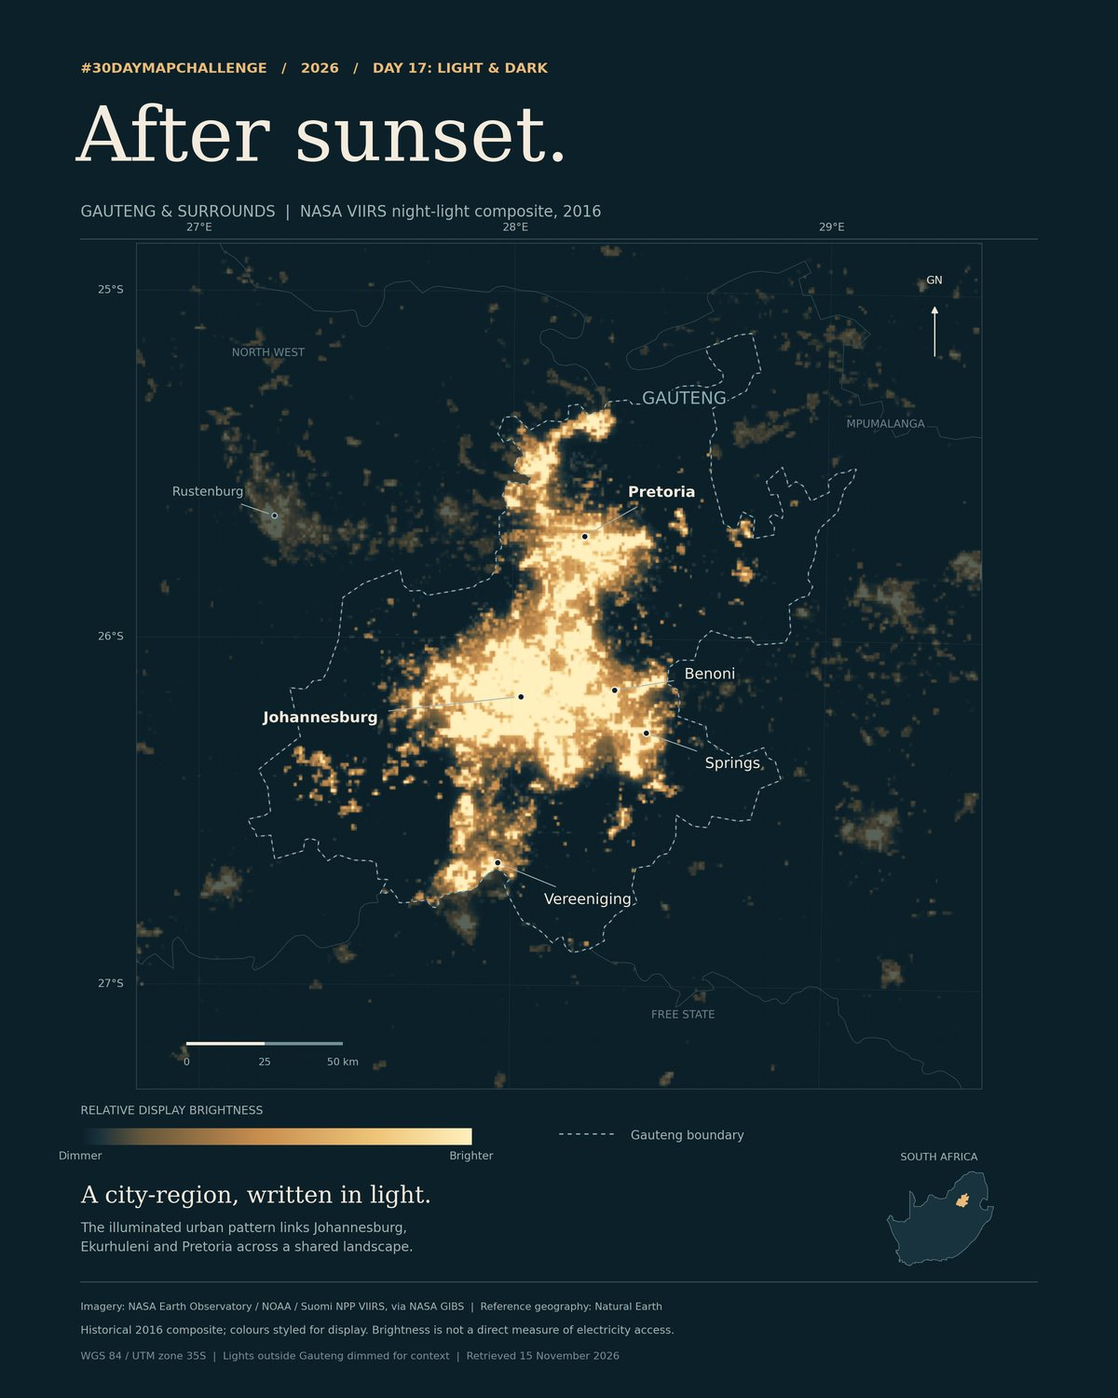
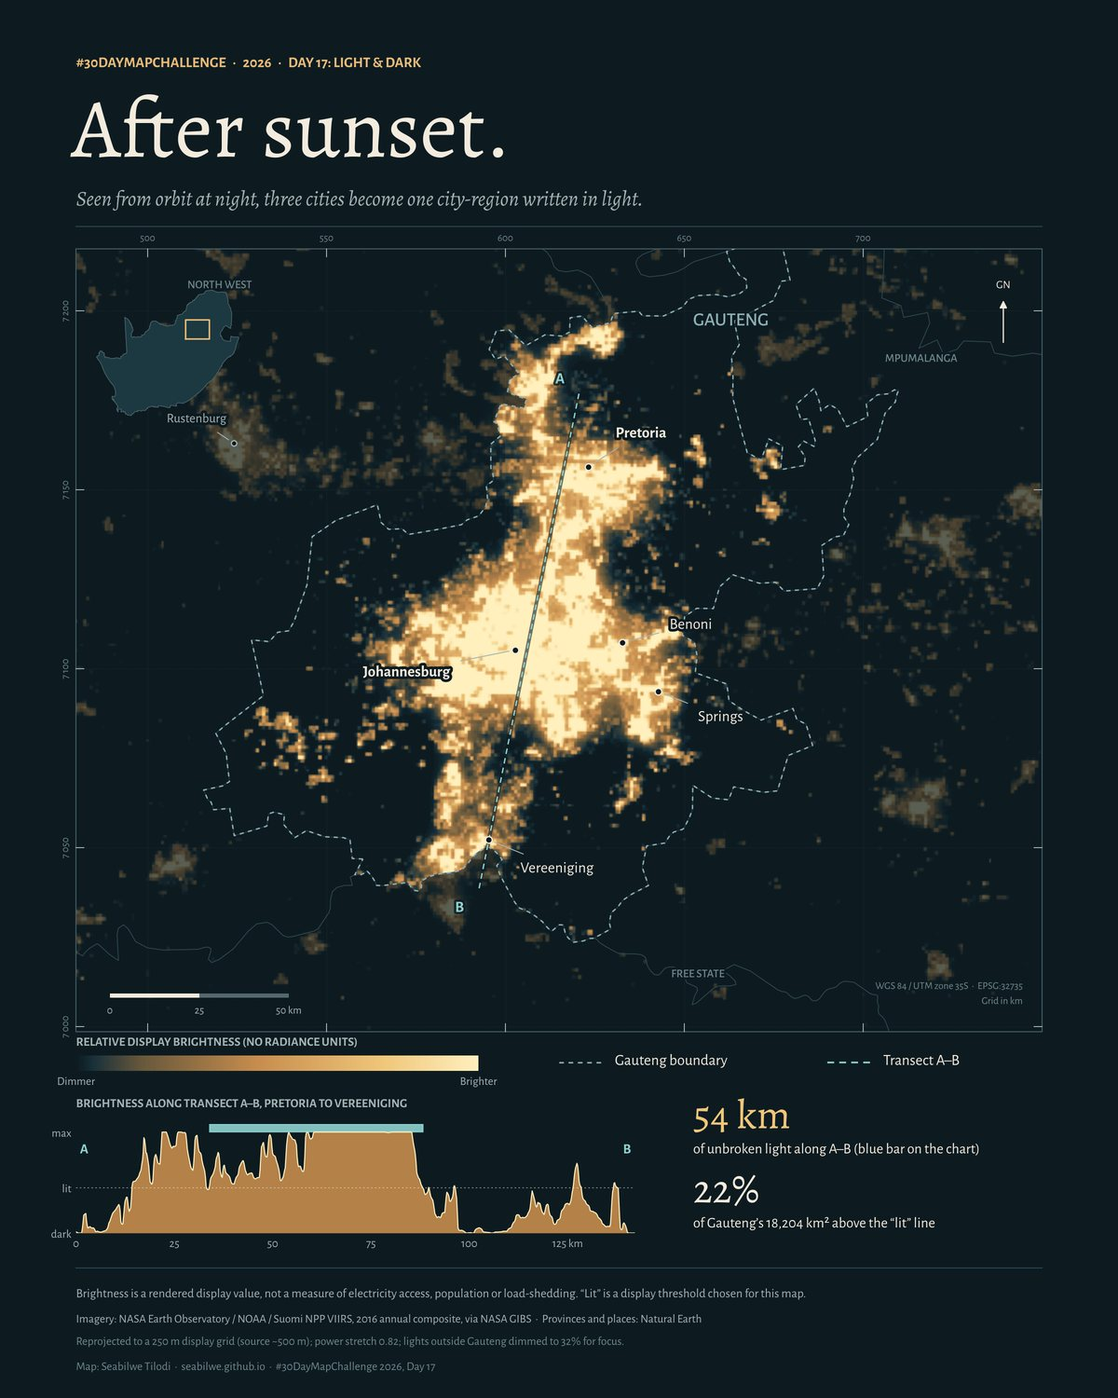
30DayMapChallenge: shared layout, Days 1 and 2, theme names on the month strip
Claude-Session: https://claude.ai/code/session_01C9NQRF8kY3v3MTsFpu5EHx

diff --git a/map-30daymapchallenge.html b/map-30daymapchallenge.html
@@ -10,7 +10,7 @@
 <link rel="preconnect" href="https://fonts.gstatic.com" crossorigin>
 <link href="https://fonts.googleapis.com/css2?family=Alegreya:ital,wght@0,500;0,700;1,500&family=Alegreya+Sans:ital,wght@0,400;0,500;0,700;1,400&family=Kalam:wght@400&display=swap" rel="stylesheet">
 <link rel="stylesheet" href="assets/css/site.css?v=20261114c">
-<link rel="stylesheet" href="assets/css/map-folder.css?v=20261116a">
+<link rel="stylesheet" href="assets/css/map-folder.css?v=20261116b">
 </head>
 <body>
 <header class="topbar">
@@ -49,7 +49,7 @@
       </header>
 
       <section aria-labelledby="mc-month">
-        <div class="head"><div><h2 id="mc-month">The month at a glance</h2><p><span data-count>3</span> of 30 days mapped. Pick a day to pull its map out of the folder.</p></div></div>
+        <div class="head"><div><h2 id="mc-month">The month at a glance</h2><p><span data-count>5</span> of 30 days mapped. Pick a day to pull its map out of the folder.</p></div></div>
         <ol class="month" data-month aria-label="Days of November 2026"></ol>
         <p class="month-key"><span><i class="k-done"></i>Mapped</span><span><i class="k-open"></i>Not mapped yet</span></p>
       </section>
@@ -59,17 +59,72 @@
 
         <div class="folder">
           <div class="folder-tabs" role="tablist" aria-label="Challenge maps">
-            <button class="folder-tab" role="tab" id="tab-17" aria-controls="day-17" aria-selected="true" data-day="17" data-thumb="assets/maps/30daymapchallenge/day17-after-sunset.jpg"><small>Day 17</small>Light &amp; dark</button>
+            <button class="folder-tab" role="tab" id="tab-1" aria-controls="day-1" aria-selected="true" data-day="1" data-thumb="assets/maps/30daymapchallenge/day01-fontein.jpg"><small>Day 1</small>Points</button>
+            <button class="folder-tab" role="tab" id="tab-2" aria-controls="day-2" aria-selected="false" tabindex="-1" data-day="2" data-thumb="assets/maps/30daymapchallenge/day02-live-wires.jpg"><small>Day 2</small>Lines</button>
+            <button class="folder-tab" role="tab" id="tab-17" aria-controls="day-17" aria-selected="false" tabindex="-1" data-day="17" data-thumb="assets/maps/30daymapchallenge/day17-after-sunset.jpg"><small>Day 17</small>Light &amp; dark</button>
             <button class="folder-tab" role="tab" id="tab-26" aria-controls="day-26" aria-selected="false" tabindex="-1" data-day="26" data-thumb="assets/maps/30daymapchallenge/day26-written-in-water.jpg"><small>Day 26</small>Water</button>
             <button class="folder-tab" role="tab" id="tab-29" aria-controls="day-29" aria-selected="false" tabindex="-1" data-day="29" data-thumb="assets/maps/30daymapchallenge/day29-sculpted-by-light.jpg"><small>Day 29</small>Raster</button>
           </div>
 
           <div class="folder-body">
 
-            <!-- Day 17 -->
-            <article class="sheet" id="day-17" role="tabpanel" aria-labelledby="tab-17" tabindex="0">
+            <article class="sheet" id="day-1" role="tabpanel" aria-labelledby="tab-1" tabindex="0">
               <figure class="sheet-map">
-                <a href="assets/maps/30daymapchallenge/day17-after-sunset-full.jpg" target="_blank" rel="noopener"><img src="assets/maps/30daymapchallenge/day17-after-sunset.jpg" alt="Night-light map of Gauteng: a bright, continuous band of light joins Johannesburg, Ekurhuleni and Pretoria" width="1200" height="1500"></a>
+                <a href="assets/maps/30daymapchallenge/day01-fontein-full.jpg" target="_blank" rel="noopener"><img src="assets/maps/30daymapchallenge/day01-fontein.jpg" alt="Map of South Africa with thousands of small blue dots marking places named for a spring, densest from the Cape to the Highveld" width="1200" height="1500"></a>
+                <figcaption><span>Portrait poster, WGS&nbsp;84 / UTM zone 35S</span><a href="assets/maps/30daymapchallenge/day01-fontein-full.jpg" target="_blank" rel="noopener">Open full size</a></figcaption>
+              </figure>
+              <div class="slip">
+                <svg class="clip" viewBox="0 0 22 54" fill="none" stroke="currentColor" stroke-width="1.8" stroke-linecap="round"><path d="M7 14V44a5 5 0 0 0 10 0V8a7 7 0 0 0-14 0v34"/></svg>
+                <p class="theme">Day 1 · Points</p>
+                <h3>Fontein</h3>
+                <p class="brief">7,244 South African places are named for a spring. In a dry country, a reliable spring was worth naming a farm after.</p>
+                <ul class="stat-row">
+                  <li class="stat"><b>1 in 9</b><span>farm names in the gazetteer contain <i>fontein</i></span></li>
+                  <li class="stat"><b>16% vs 3%</b><span>of named places in Gauteng vs KwaZulu-Natal</span></li>
+                </ul>
+                <h4>How I made it</h4>
+                <ul>
+                  <li>Pulled every place in the GeoNames gazetteer for South Africa (103,212 features) and matched names containing <i>fontein</i> or the older <i>fonteyn</i>.</li>
+                  <li>Drew the 7,244 matches as points over a faint layer of all 67,435 named farms and settlements, so the pattern reads against where names exist at all.</li>
+                  <li>Counted the most repeated names: Rietfontein (reed spring) 318 times, Klipfontein (stone spring) 222, Driefontein (three springs) 153.</li>
+                  <li>Flagged the bias: the gazetteer leans on farm names recorded in Dutch and Afrikaans, so names in other languages are under-represented.</li>
+                </ul>
+                <h4>Data</h4>
+                <p class="src">GeoNames gazetteer for South Africa (CC BY 4.0) · Boundaries: Natural Earth.</p>
+                <ul class="tags"><li>Point mapping</li><li>Toponymy</li><li>Python · shapely</li><li>Spatial join</li></ul>
+              </div>
+            </article>
+
+            <article class="sheet" id="day-2" role="tabpanel" aria-labelledby="tab-2" tabindex="0" hidden>
+              <figure class="sheet-map">
+                <a href="assets/maps/30daymapchallenge/day02-live-wires-full.jpg" target="_blank" rel="noopener"><img src="assets/maps/30daymapchallenge/day02-live-wires.jpg" alt="Map of South Africa’s high-voltage power lines glowing gold and blue, with the brightest 765 kV lines running from the Highveld to the Cape" width="1200" height="1500" loading="lazy"></a>
+                <figcaption><span>Portrait poster, WGS&nbsp;84 / UTM zone 35S</span><a href="assets/maps/30daymapchallenge/day02-live-wires-full.jpg" target="_blank" rel="noopener">Open full size</a></figcaption>
+              </figure>
+              <div class="slip">
+                <svg class="clip" viewBox="0 0 22 54" fill="none" stroke="currentColor" stroke-width="1.8" stroke-linecap="round"><path d="M7 14V44a5 5 0 0 0 10 0V8a7 7 0 0 0-14 0v34"/></svg>
+                <p class="theme">Day 2 · Lines</p>
+                <h3>Live wires</h3>
+                <p class="brief">South Africa’s high-voltage grid, drawn from OpenStreetMap. The heaviest lines leave the Mpumalanga Highveld and reach for the Cape.</p>
+                <ul class="stat-row">
+                  <li class="stat"><b>34,157&nbsp;km</b><span>of mapped lines at 220&nbsp;kV and above</span></li>
+                  <li class="stat"><b>2,799&nbsp;km</b><span>of 765&nbsp;kV, the highest voltage</span></li>
+                </ul>
+                <h4>How I made it</h4>
+                <ul>
+                  <li>Extracted 8,095 power lines of 66&nbsp;kV and above from OpenStreetMap with the Overpass API, run from QGIS.</li>
+                  <li>Classed each line by its highest voltage and drew the backbone (400 and 765&nbsp;kV) with a soft glow so it reads first.</li>
+                  <li>Clipped to South Africa and measured every line’s geodesic length for the bar chart under the map.</li>
+                  <li>OSM is volunteer-mapped: each line is counted once, whatever its number of circuits, and some lines may be missing.</li>
+                </ul>
+                <h4>Data</h4>
+                <p class="src">© OpenStreetMap contributors (ODbL), extracted 16 November 2026 · Boundaries: Natural Earth.</p>
+                <ul class="tags"><li>Line styling</li><li>Overpass API</li><li>PyQGIS</li><li>Geodesic measurement</li></ul>
+              </div>
+            </article>
+
+            <article class="sheet" id="day-17" role="tabpanel" aria-labelledby="tab-17" tabindex="0" hidden>
+              <figure class="sheet-map">
+                <a href="assets/maps/30daymapchallenge/day17-after-sunset-full.jpg" target="_blank" rel="noopener"><img src="assets/maps/30daymapchallenge/day17-after-sunset.jpg" alt="Night-light map of Gauteng: a bright, continuous band of light joins Johannesburg, Ekurhuleni and Pretoria" width="1200" height="1500" loading="lazy"></a>
                 <figcaption><span>Portrait poster, WGS&nbsp;84 / UTM zone 35S</span><a href="assets/maps/30daymapchallenge/day17-after-sunset-full.jpg" target="_blank" rel="noopener">Open full size</a></figcaption>
               </figure>
               <div class="slip">
@@ -78,51 +133,49 @@
                 <h3>After sunset</h3>
                 <p class="brief">Seen from orbit at night, Johannesburg, Ekurhuleni and Pretoria stop being three cities and become one city-region written in light.</p>
                 <ul class="stat-row">
-                  <li class="stat"><b>2016</b><span>NASA VIIRS annual night-light composite</span></li>
-                  <li class="stat"><b>~500&nbsp;m</b><span>source image resolution</span></li>
+                  <li class="stat"><b>54&nbsp;km</b><span>of unbroken light on a transect from Pretoria to Vereeniging</span></li>
+                  <li class="stat"><b>22%</b><span>of Gauteng above the map’s “lit” line</span></li>
                 </ul>
                 <h4>How I made it</h4>
                 <ul>
-                  <li>Requested the VIIRS night-lights layer from NASA GIBS for a box around Gauteng and reprojected it to UTM&nbsp;35S on a 250&nbsp;m display grid.</li>
-                  <li>Styled the brightness on a navy-to-gold ramp, with a gentle power stretch so dimmer towns still show.</li>
-                  <li>Dimmed the lights outside Gauteng to keep the eye on the province, an editorial choice rather than a measured drop at the border.</li>
-                  <li>Kept the caveat on the map: brightness is not a measure of electricity access, population or load-shedding.</li>
+                  <li>Requested NASA’s VIIRS night-lights layer (2016 annual composite) from NASA GIBS and reprojected it to UTM&nbsp;35S on a 250&nbsp;m display grid.</li>
+                  <li>Styled brightness on a navy-to-gold ramp and dimmed lights outside Gauteng to keep the eye on the province.</li>
+                  <li>Sampled a north–south transect through Pretoria, Johannesburg and Vereeniging and measured the longest unbroken lit stretch.</li>
+                  <li>Brightness is a display value, not a measure of electricity access, population or load-shedding; “lit” is a threshold chosen for this map.</li>
                 </ul>
                 <h4>Data</h4>
                 <p class="src">NASA Earth Observatory / NOAA / Suomi NPP VIIRS via NASA GIBS · Provinces and places: Natural Earth.</p>
-                <ul class="tags"><li>Raster styling</li><li>Reprojection</li><li>Python · rasterio</li><li>QGIS starter pack</li></ul>
+                <ul class="tags"><li>Raster styling</li><li>Transect analysis</li><li>Python · rasterio</li><li>Reprojection</li></ul>
               </div>
             </article>
 
-            <!-- Day 26 -->
             <article class="sheet" id="day-26" role="tabpanel" aria-labelledby="tab-26" tabindex="0" hidden>
               <figure class="sheet-map">
-                <a href="assets/maps/30daymapchallenge/day26-written-in-water-full.jpg" target="_blank" rel="noopener"><img src="assets/maps/30daymapchallenge/day26-written-in-water.jpg" alt="South Africa's river network: perennial rivers in pale blue crowd the wetter east, seasonal rivers in sand dominate the dry west" width="1200" height="1500" loading="lazy"></a>
-                <figcaption><span>Portrait poster, Albers equal-area</span><a href="assets/maps/30daymapchallenge/day26-written-in-water-full.jpg" target="_blank" rel="noopener">Open full size</a></figcaption>
+                <a href="assets/maps/30daymapchallenge/day26-written-in-water-full.jpg" target="_blank" rel="noopener"><img src="assets/maps/30daymapchallenge/day26-written-in-water.jpg" alt="South Africa’s river network: perennial rivers in pale blue crowd the wetter east, seasonal rivers in sand dominate the dry west" width="1200" height="1500" loading="lazy"></a>
+                <figcaption><span>Portrait poster, WGS&nbsp;84 / UTM zone 35S</span><a href="assets/maps/30daymapchallenge/day26-written-in-water-full.jpg" target="_blank" rel="noopener">Open full size</a></figcaption>
               </figure>
               <div class="slip">
                 <svg class="clip" viewBox="0 0 22 54" fill="none" stroke="currentColor" stroke-width="1.8" stroke-linecap="round"><path d="M7 14V44a5 5 0 0 0 10 0V8a7 7 0 0 0-14 0v34"/></svg>
                 <p class="theme">Day 26 · Water</p>
                 <h3>Written in water</h3>
-                <p class="brief">Where South Africa’s rivers run all year, and where they wait for rain. Somewhere near 27°E the country’s river network changes character.</p>
+                <p class="brief">Where South Africa’s rivers run all year, and where they wait for rain. At 27°E, the central meridian of UTM&nbsp;35S, the river network changes character.</p>
                 <ul class="stat-row">
                   <li class="stat"><b>78%</b><span>of mapped river length east of 27°E is perennial</span></li>
                   <li class="stat"><b>28%</b><span>west of 27°E, where most rivers are seasonal</span></li>
                 </ul>
                 <h4>How I made it</h4>
                 <ul>
-                  <li>Mapped 101,472 river reaches (156,378&nbsp;km) from the NFEPA river network, split by the flow class recorded in the source: perennial or non-perennial.</li>
-                  <li>Measured every reach in an Albers equal-area projection and summed perennial length in 1° bands of longitude, shown in the strip chart under the map.</li>
+                  <li>Mapped 101,472 river reaches (156,358&nbsp;km) from the NFEPA river network, split by the flow class in the source: perennial or non-perennial.</li>
+                  <li>Measured every reach’s geodesic length and summed perennial length in 1° bands of longitude for the strip chart.</li>
                   <li>Picked out the Orange in gold: a perennial thread carrying water across the dry west.</li>
                   <li>Flow class is the long-term classification in the data, not today’s flow or drought conditions.</li>
                 </ul>
                 <h4>Data</h4>
-                <p class="src">NFEPA river network via the DFFE Screening Tool · Boundaries: Natural Earth 1:10m.</p>
-                <ul class="tags"><li>Vector analysis</li><li>Equal-area measurement</li><li>Python · shapely</li><li>QGIS starter pack</li></ul>
+                <p class="src">NFEPA river network via the DFFE Screening Tool · Boundaries: Natural Earth.</p>
+                <ul class="tags"><li>Vector analysis</li><li>Geodesic measurement</li><li>Python · shapely</li><li>Classification</li></ul>
               </div>
             </article>
 
-            <!-- Day 29 -->
             <article class="sheet" id="day-29" role="tabpanel" aria-labelledby="tab-29" tabindex="0" hidden>
               <figure class="sheet-map">
                 <a href="assets/maps/30daymapchallenge/day29-sculpted-by-light-full.jpg" target="_blank" rel="noopener"><img src="assets/maps/30daymapchallenge/day29-sculpted-by-light.jpg" alt="Shaded-relief map of the Maloti-Drakensberg: the high Lesotho plateau glows in sand tones above the dark, shadowed escarpment" width="1200" height="1500" loading="lazy"></a>
@@ -135,17 +188,17 @@
                 <p class="brief">Ridges emerge, valleys fall into shadow. The Maloti-Drakensberg, drawn from nothing but elevation data.</p>
                 <ul class="stat-row">
                   <li class="stat"><b>3,482&nbsp;m</b><span>Thabana Ntlenyana, the highest summit on the map</span></li>
-                  <li class="stat"><b>156</b><span>elevation tiles mosaicked into one 140&nbsp;m grid</span></li>
+                  <li class="stat"><b>1,396&nbsp;m</b><span>the lowest ground in Lesotho on this grid</span></li>
                 </ul>
                 <h4>How I made it</h4>
                 <ul>
-                  <li>Decoded Terrarium elevation tiles to metres, mosaicked them and reprojected the grid to UTM&nbsp;35S.</li>
-                  <li>Coloured elevation from 600 to 3,500&nbsp;m in charcoal, sand and copper, then blended a north-west hillshade over it, with 2× exaggeration for the shading only.</li>
-                  <li>Added sparse contours as texture and labelled three summits with heights from a cited source rather than the resampled grid.</li>
+                  <li>Decoded 156 Terrarium elevation tiles to metres, mosaicked them and reprojected the grid to UTM&nbsp;35S at 140&nbsp;m.</li>
+                  <li>Coloured elevation from 600 to 3,500&nbsp;m in charcoal, sand and copper and blended a north-west hillshade over it (2× exaggeration for shading only).</li>
+                  <li>Cut an elevation profile from the Lesotho plateau over the escarpment, and found Lesotho’s lowest ground from the grid itself.</li>
                 </ul>
                 <h4>Data</h4>
-                <p class="src">Terrain Tiles: Mapzen / AWS Open Data (SRTM and GMTED2010, courtesy of the USGS) · Boundaries: Natural Earth · Summits: Drakensberg Hikes.</p>
-                <ul class="tags"><li>DEM processing</li><li>Hillshade &amp; hypsometric tint</li><li>Python · rasterio</li><li>QGIS starter pack</li></ul>
+                <p class="src">Terrain Tiles: Mapzen / AWS (SRTM and GMTED2010, courtesy of the USGS) · Boundaries: Natural Earth · Summits: Drakensberg Hikes.</p>
+                <ul class="tags"><li>DEM processing</li><li>Hillshade &amp; hypsometric tint</li><li>Elevation profile</li><li>Python · rasterio</li></ul>
               </div>
             </article>
 
@@ -161,7 +214,7 @@
         <div class="head"><div><h2 id="mc-about">About the challenge</h2></div></div>
         <div class="prose">
           <p>The <a href="https://30daymapchallenge.com/" target="_blank" rel="noopener">#30DayMapChallenge</a> is a community event every November: one theme a day, any tools, any data. You can join on as many or as few days as you like.</p>
-          <p>My rule for this year: South African places, open data only, and a clear story in every map. Each map is scripted in Python with AI assistance and packaged as a QGIS starter project, with the data, style and recreation notes, so it can double as teaching material.</p>
+          <p>My rules for this year: South African places, open data only, a clear story in every map, and one shared layout in South Africa’s own UTM zones (34S, 35S or 36S). Each map is scripted in Python and PyQGIS with AI assistance, and the code and data travel with it, so it can double as teaching material.</p>
         </div>
         <p><a class="btn btn-line" href="blogs.html#maps">Back to the gallery</a></p>
       </section>
@@ -175,6 +228,6 @@
   </main>
 </div>
 <script src="assets/js/site.js"></script>
-<script src="assets/js/map-folder.js?v=20261116a"></script>
+<script src="assets/js/map-folder.js?v=20261116b"></script>
 </body>
 </html>

diff --git a/assets/js/map-folder.js b/assets/js/map-folder.js
@@ -7,6 +7,10 @@
   var month = document.querySelector("[data-month]");
   var steps = document.querySelectorAll("[data-step]");
   var current = 0;
+  var THEMES = ["Points", "Lines", "Polygons", "Clusters", "Senses: Sight", "Vintage", "10 minute map", "Utopia", "Urban-rural",
+    "Prompting only", "Senses: Sound", "Power", "Interactions", "Borgesian map", "Inside out", "Collaborative map", "Light & dark",
+    "NULL", "Senses: Smell", "Hexagons", "OpenStreetMap", "Projections", "Senses: Taste", "Network", "Is this a map?", "Water",
+    "New tool", "Senses: Feeling", "Raster", "Pen & paper"];  /* official 2026 themes, github.com/tjukanovt/30DayMapChallenge */
 
   function select(i, opts) {
     opts = opts || {};
@@ -54,8 +58,9 @@
         var t = tabs[k], b = document.createElement("button");
         b.type = "button"; b.className = "day day-done"; b.setAttribute("data-day", d);
         b.style.backgroundImage = "url('" + t.getAttribute("data-thumb") + "')";
-        b.setAttribute("aria-label", "Day " + d + ": " + t.lastChild.textContent.trim());
-        b.innerHTML = "<span>" + d + "</span>";
+        b.setAttribute("aria-label", "Day " + d + ": " + THEMES[d - 1]);
+        b.title = "Day " + d + ": " + THEMES[d - 1];
+        b.innerHTML = "<span>" + d + "<em>" + THEMES[d - 1].replace(/&/g, "&amp;") + "</em></span>";
         (function (k) {
           b.addEventListener("click", function () {
             select(k);
@@ -64,7 +69,7 @@
         })(k);
         li.appendChild(b);
       } else {
-        li.innerHTML = '<span class="day" aria-label="Day ' + d + ', not mapped yet">' + d + "</span>";
+        li.innerHTML = '<span class="day" title="Day ' + d + ': ' + THEMES[d - 1].replace(/&/g, "&amp;") + ', not mapped yet"><span>' + d + "<em>" + THEMES[d - 1].replace(/&/g, "&amp;") + "</em></span></span>";
       }
       month.appendChild(li);
     }

diff --git a/blogs.html b/blogs.html
@@ -111,11 +111,11 @@
         <ul class="map-cards">
           <li>
             <a class="map-card" href="map-30daymapchallenge.html">
-              <span class="map-card-thumb"><img src="assets/maps/30daymapchallenge/folder-thumb.jpg" alt="A folder of #30DayMapChallenge map posters: Drakensberg terrain, Gauteng night lights and South Africa's rivers" loading="lazy" width="800" height="500"></span>
+              <span class="map-card-thumb"><img src="assets/maps/30daymapchallenge/folder-thumb.jpg" alt="A folder of #30DayMapChallenge map posters: places named for springs, the high-voltage grid and Drakensberg terrain" loading="lazy" width="800" height="500"></span>
               <div class="map-card-body">
                 <span class="topic">Map series &middot; #30DayMapChallenge 2026</span>
                 <h3>#30DayMapChallenge 2026: the folder</h3>
-                <p>A growing folder of South African maps made for November's challenge: night lights over Gauteng, rivers that run all year or wait for rain, and the Drakensberg in relief.</p>
+                <p>A growing folder of South African maps for November&rsquo;s challenge, all on one layout: places named for springs, the high-voltage grid, Gauteng at night, rivers and the Drakensberg.</p>
                 <span class="map-card-go">Open the folder</span>
               </div>
             </a>

diff --git a/assets/css/map-folder.css b/assets/css/map-folder.css
@@ -3,6 +3,8 @@
 /* ---------- Month strip ---------- */
 .month{list-style:none;margin:0;padding:0;display:grid;grid-template-columns:repeat(15,minmax(0,1fr));gap:6px}
 .month li{aspect-ratio:1;min-width:0}
+.day > span{display:flex;flex-direction:column;gap:2px;min-width:0;width:100%}
+.day em{font-style:normal;font-weight:400;font-size:.62rem;line-height:1.1;opacity:.85;overflow:hidden;text-overflow:ellipsis;white-space:nowrap}
 .day{width:100%;height:100%;display:flex;align-items:flex-end;justify-content:flex-start;padding:4px 6px;border-radius:8px;
   font-family:var(--sans);font-size:.85rem;line-height:1;color:var(--ink-soft);border:1px dashed var(--rule);background:transparent}
 .day-done{position:relative;overflow:hidden;cursor:pointer;color:#fff;font-weight:700;border:1.5px solid var(--contour);
@@ -17,6 +19,7 @@
 .month-key .k-open{border:1px dashed var(--ink-soft)}
 @media (max-width:760px){.month{grid-template-columns:repeat(10,minmax(0,1fr))}}
 @media (max-width:420px){.month{grid-template-columns:repeat(6,minmax(0,1fr))}}
+@media (max-width:560px){.day em{display:none}}
 
 /* ---------- Folder ---------- */
 .folder{position:relative;margin-top:.5rem}
